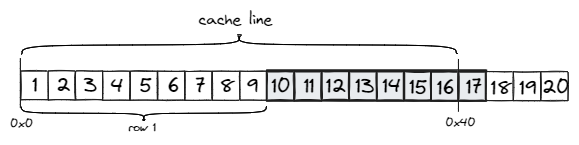
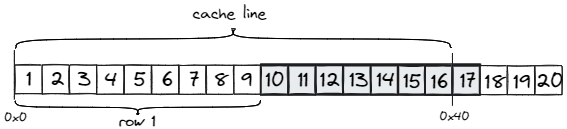
[Chapter 12] - uarch opts. fixed images

diff --git a/chapters/12-Other-Tuning-Areas/12-2 Microarchitecture-Specific Issues.md b/chapters/12-Other-Tuning-Areas/12-2 Microarchitecture-Specific Issues.md
@@ -90,7 +90,7 @@ The first step to mitigate split loads/stores in this assignment is to align the
 
 However, it's not enough to only align the starting offset of a matrix. Consider an example of a `9x9` matrix of `float` values shown in @fig:MemAlignment. If a cache line is 64 bytes, it can store 16 `float` values. When using AVX2 instructions, the program will load/store 8 elements (256 bits) at a time. In each row, the first eight elements will be processed in a SIMD way, while the last element will be processed in a scalar way by the loop remainder. The second vector load/store (elements 10-17) crosses the cache line boundary as many other subsequent vector loads/stores. The problem highlighted in @fig:MemAlignment affects any matrix with a number of columns that is not a multiple of 8 (for AVX2 vectorization). The SSE and ARM Neon vectorization requires 16-byte alignment; AVX-512 requires 64-byte alignment.
 
-![.](../../img/memory-access-opts/MemAlignment.png){#fig:MemAlignment width=80%}
+![Split loads/stores inside a 9x9 matrix when using AVX2 vectorization. Split memory access is highlighted in gray.](../../img/memory-access-opts/MemAlignment.png){#fig:MemAlignment width=80%}
 
 So, in addition to aligning the starting offset, each row of the matrix should be aligned as well. For example in @fig:MemAlignment, it can be achieved by inserting seven dummy columns into the matrix, effectively making it a `9x16` matrix. This will align the second row (elements 10-18) at the offset `0x40`. In a similar manner we need to align all other rows. The dummy columns will not be processed by the algorithm, but they will ensure that the actual data is aligned to the cache line boundary. In our testing, performance impact of this change was up to 30%,
 depending on the matrix size and the platform configuration.
